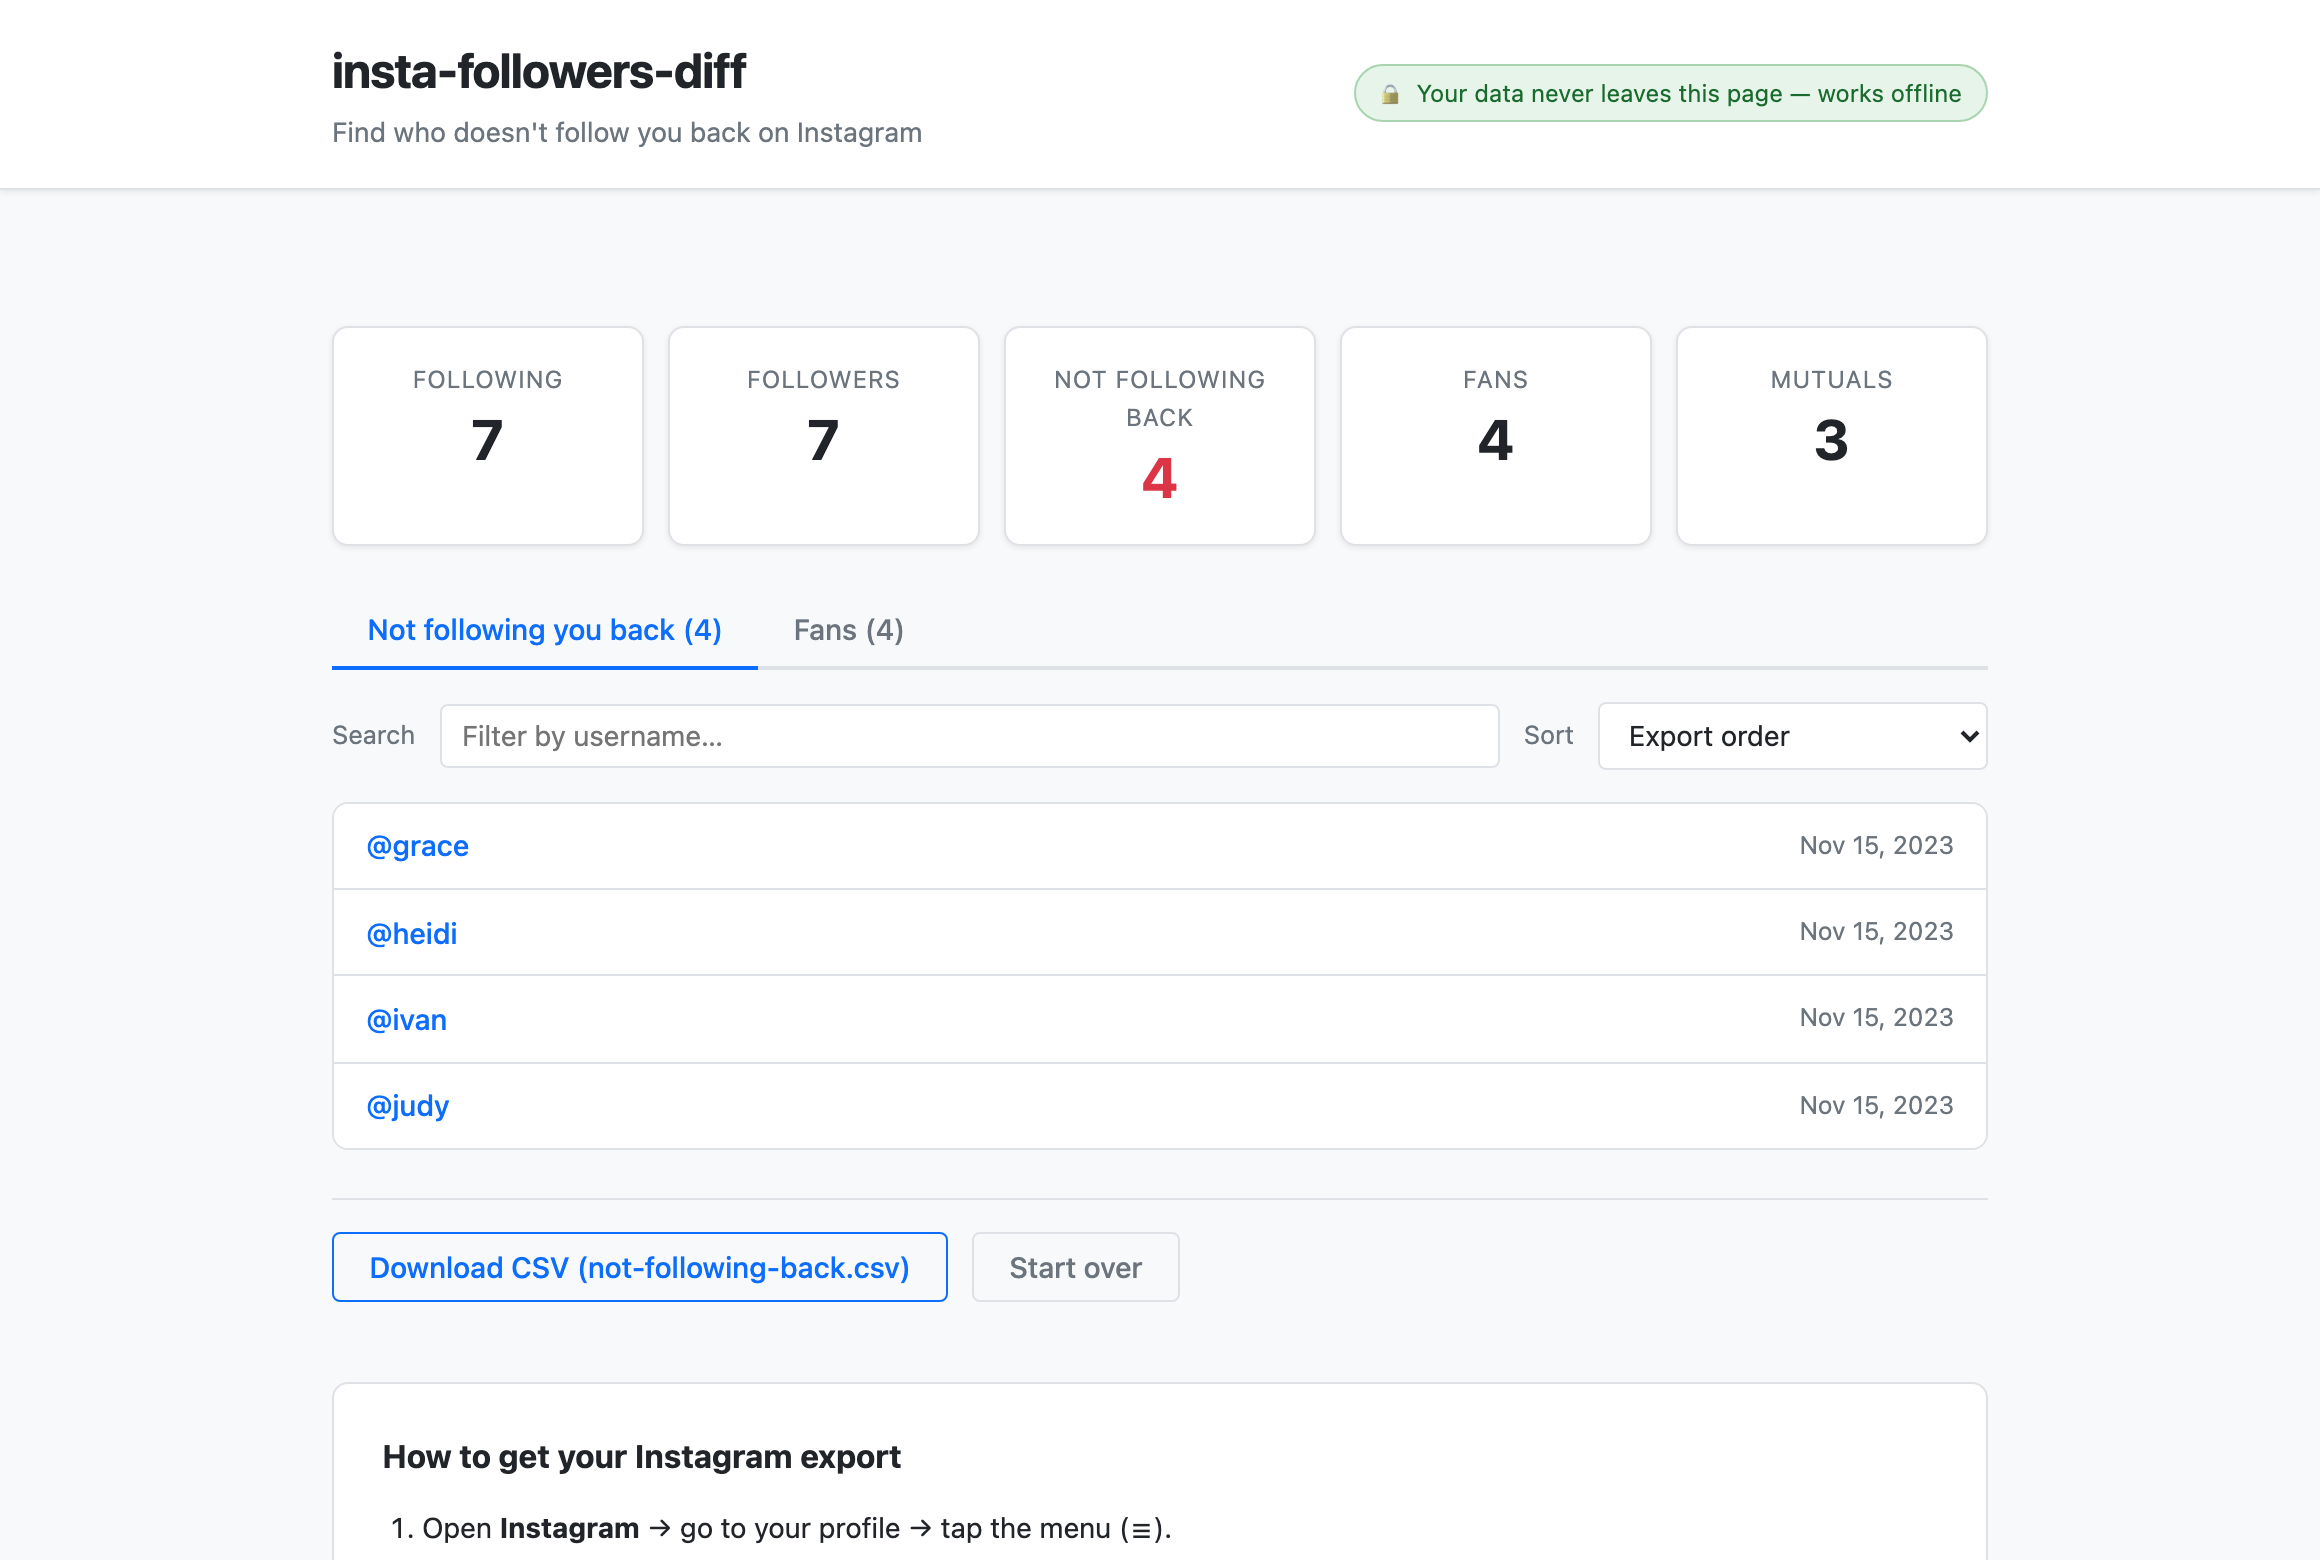
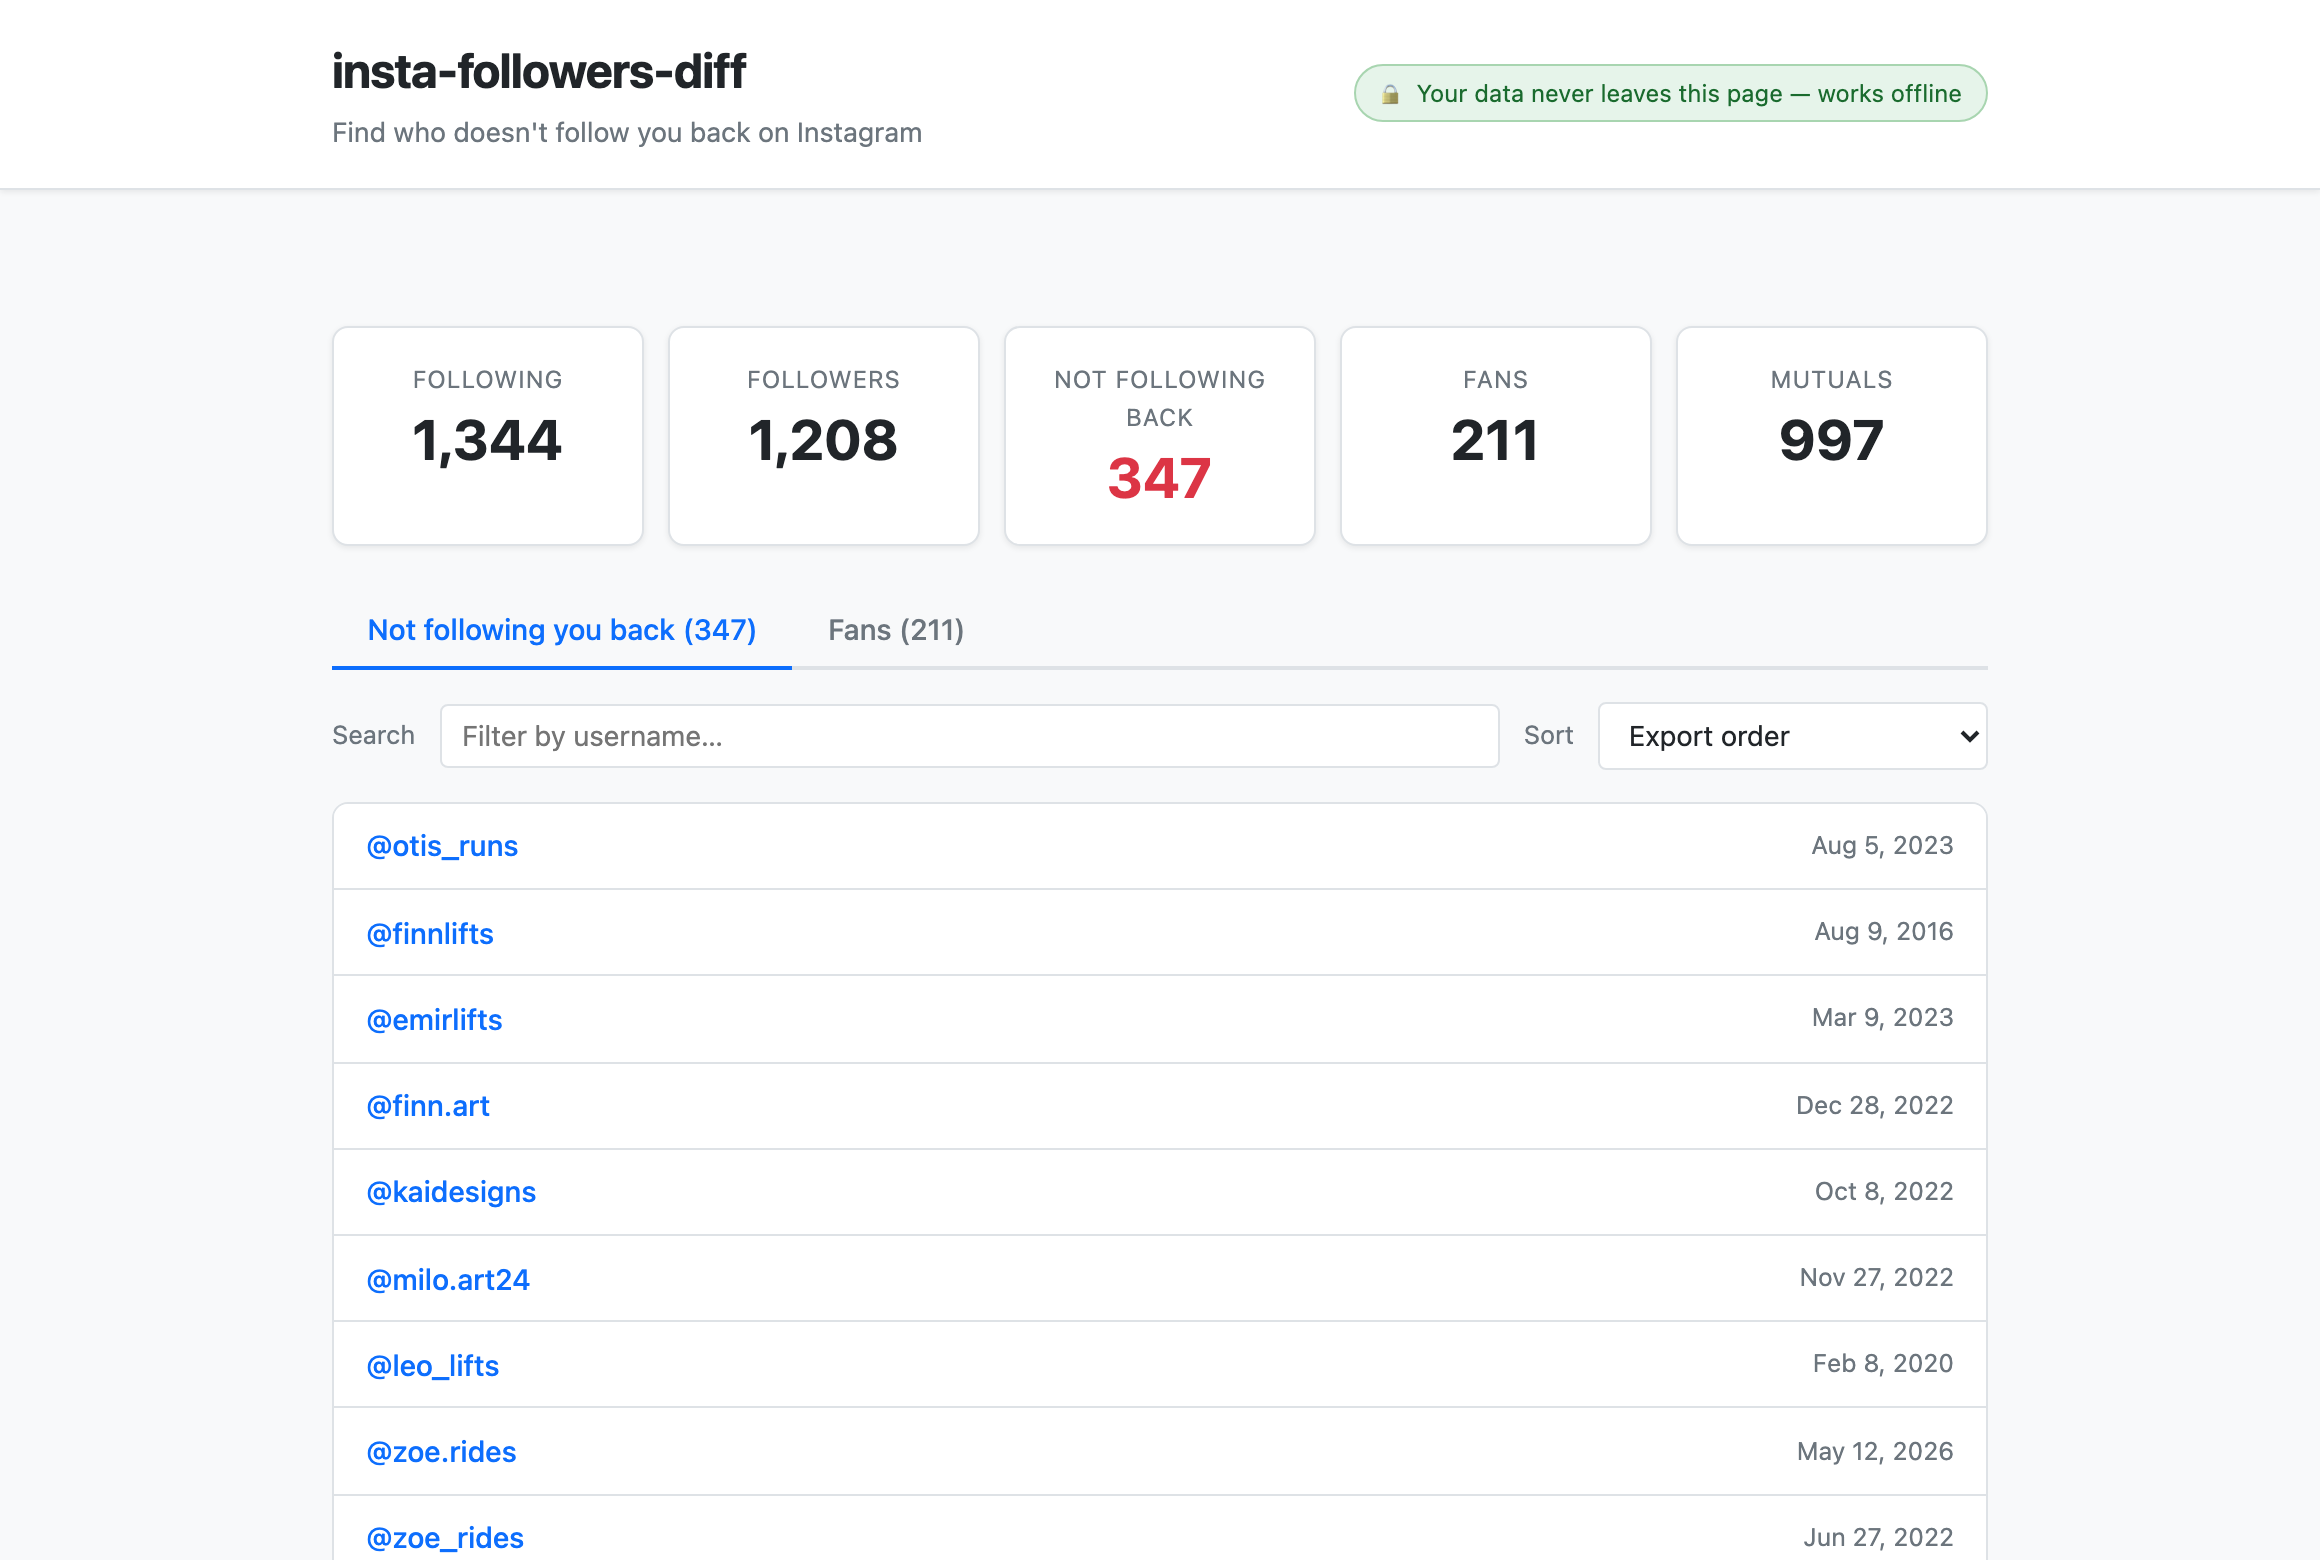
Add social preview image and realistic demo data in screenshot
1280x640 OpenGraph card (web/social-preview.png) wired into og:/twitter:
meta tags so shared links to the live app show a rich preview. The
README screenshot now uses a seeded ~1.3k-account synthetic dataset
(following 1,344 / followers 1,208 / not following back 347) instead of
the 7-account test fixtures, fed through the app's real file-input flow.

diff --git a/web/index.html b/web/index.html
@@ -6,6 +6,12 @@
   <meta http-equiv="Content-Security-Policy" content="default-src 'none'; script-src 'self'; style-src 'self'; img-src 'self' data:; worker-src blob:; base-uri 'none'; form-action 'none'">
   <title>insta-followers-diff — who doesn't follow you back on Instagram</title>
   <meta name="description" content="Find out which Instagram accounts you follow that don't follow you back. 100% client-side — your data never leaves this page.">
+  <meta property="og:type" content="website">
+  <meta property="og:title" content="insta-followers-diff — who doesn't follow you back on Instagram">
+  <meta property="og:description" content="Find which Instagram accounts you follow that don't follow you back — 100% in your browser using Instagram's official data export. No login, no upload.">
+  <meta property="og:url" content="https://furkankeremselimoglu.github.io/insta-followers-diff/">
+  <meta property="og:image" content="https://furkankeremselimoglu.github.io/insta-followers-diff/social-preview.png">
+  <meta name="twitter:card" content="summary_large_image">
   <link rel="icon" href="favicon.svg" type="image/svg+xml">
   <link rel="apple-touch-icon" href="apple-touch-icon.png">
   <link rel="stylesheet" href="css/styles.css">